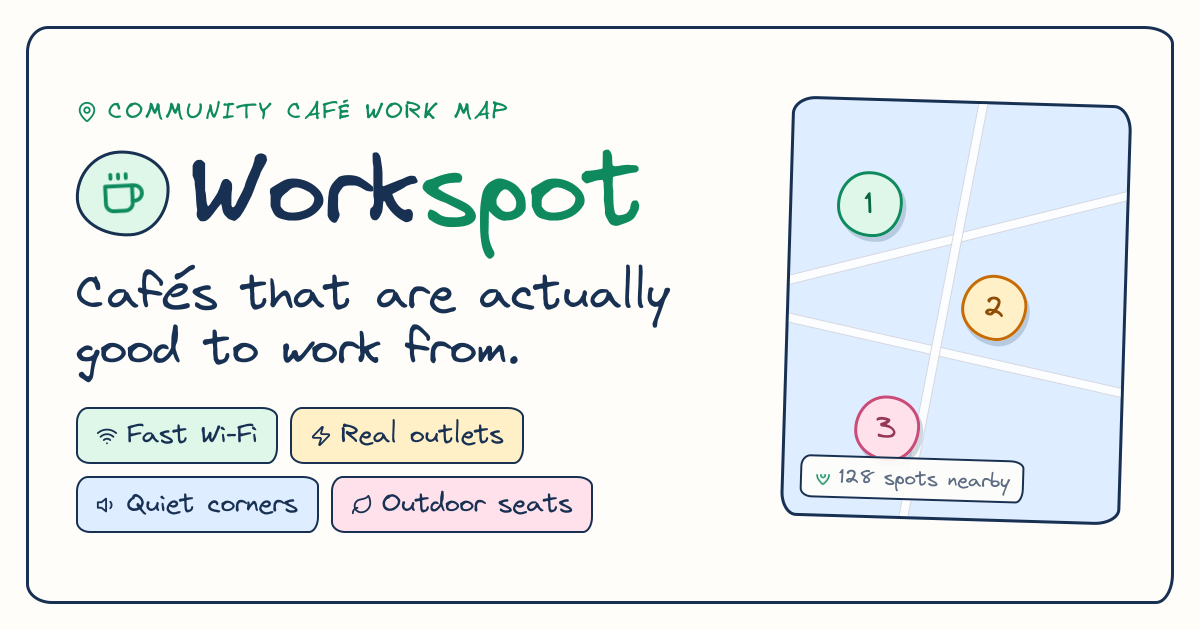
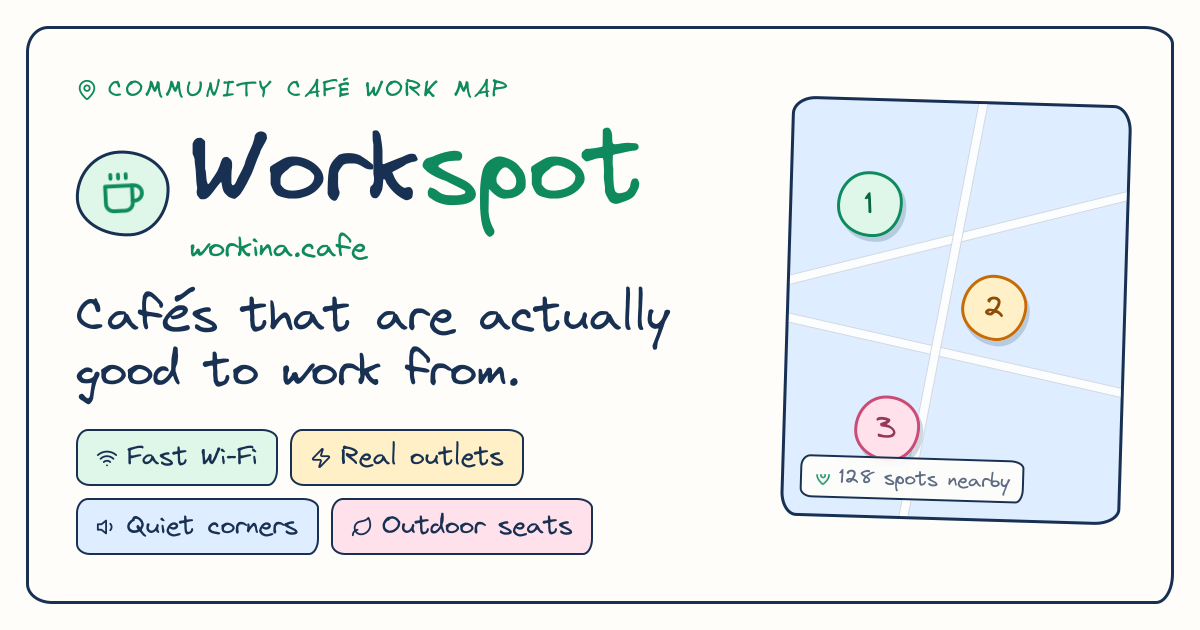
Name the site workina.cafe
- Use https://workina.cafe as the default metadataBase (NEXT_PUBLIC_SITE_URL override still wins)
- Show workina.cafe under the wordmark on the social preview card

Changed region(s): [[0.0617, 0.1206, 0.555, 0.9048]]

diff --git a/src/lib/og-image.tsx b/src/lib/og-image.tsx
@@ -184,9 +184,14 @@ export async function renderOgImage() {
               >
                 <CoffeeIcon size={46} color={green} />
               </div>
-              <div style={{ display: "flex", fontSize: 104, lineHeight: 1 }}>
-                <span style={{ color: ink }}>Work</span>
-                <span style={{ color: green }}>spot</span>
+              <div style={{ display: "flex", flexDirection: "column" }}>
+                <div style={{ display: "flex", fontSize: 104, lineHeight: 1 }}>
+                  <span style={{ color: ink }}>Work</span>
+                  <span style={{ color: green }}>spot</span>
+                </div>
+                <div style={{ display: "flex", color: green, fontSize: 30, marginTop: 6 }}>
+                  workina.cafe
+                </div>
               </div>
             </div>
 

diff --git a/src/app/layout.tsx b/src/app/layout.tsx
@@ -20,7 +20,7 @@ const virgil = localFont({
   display: "swap",
 });
 
-const siteUrl = process.env.NEXT_PUBLIC_SITE_URL ?? "https://workinacafe.vercel.app";
+const siteUrl = process.env.NEXT_PUBLIC_SITE_URL ?? "https://workina.cafe";
 
 const title = "Workspot — community café work map";
 const description =
